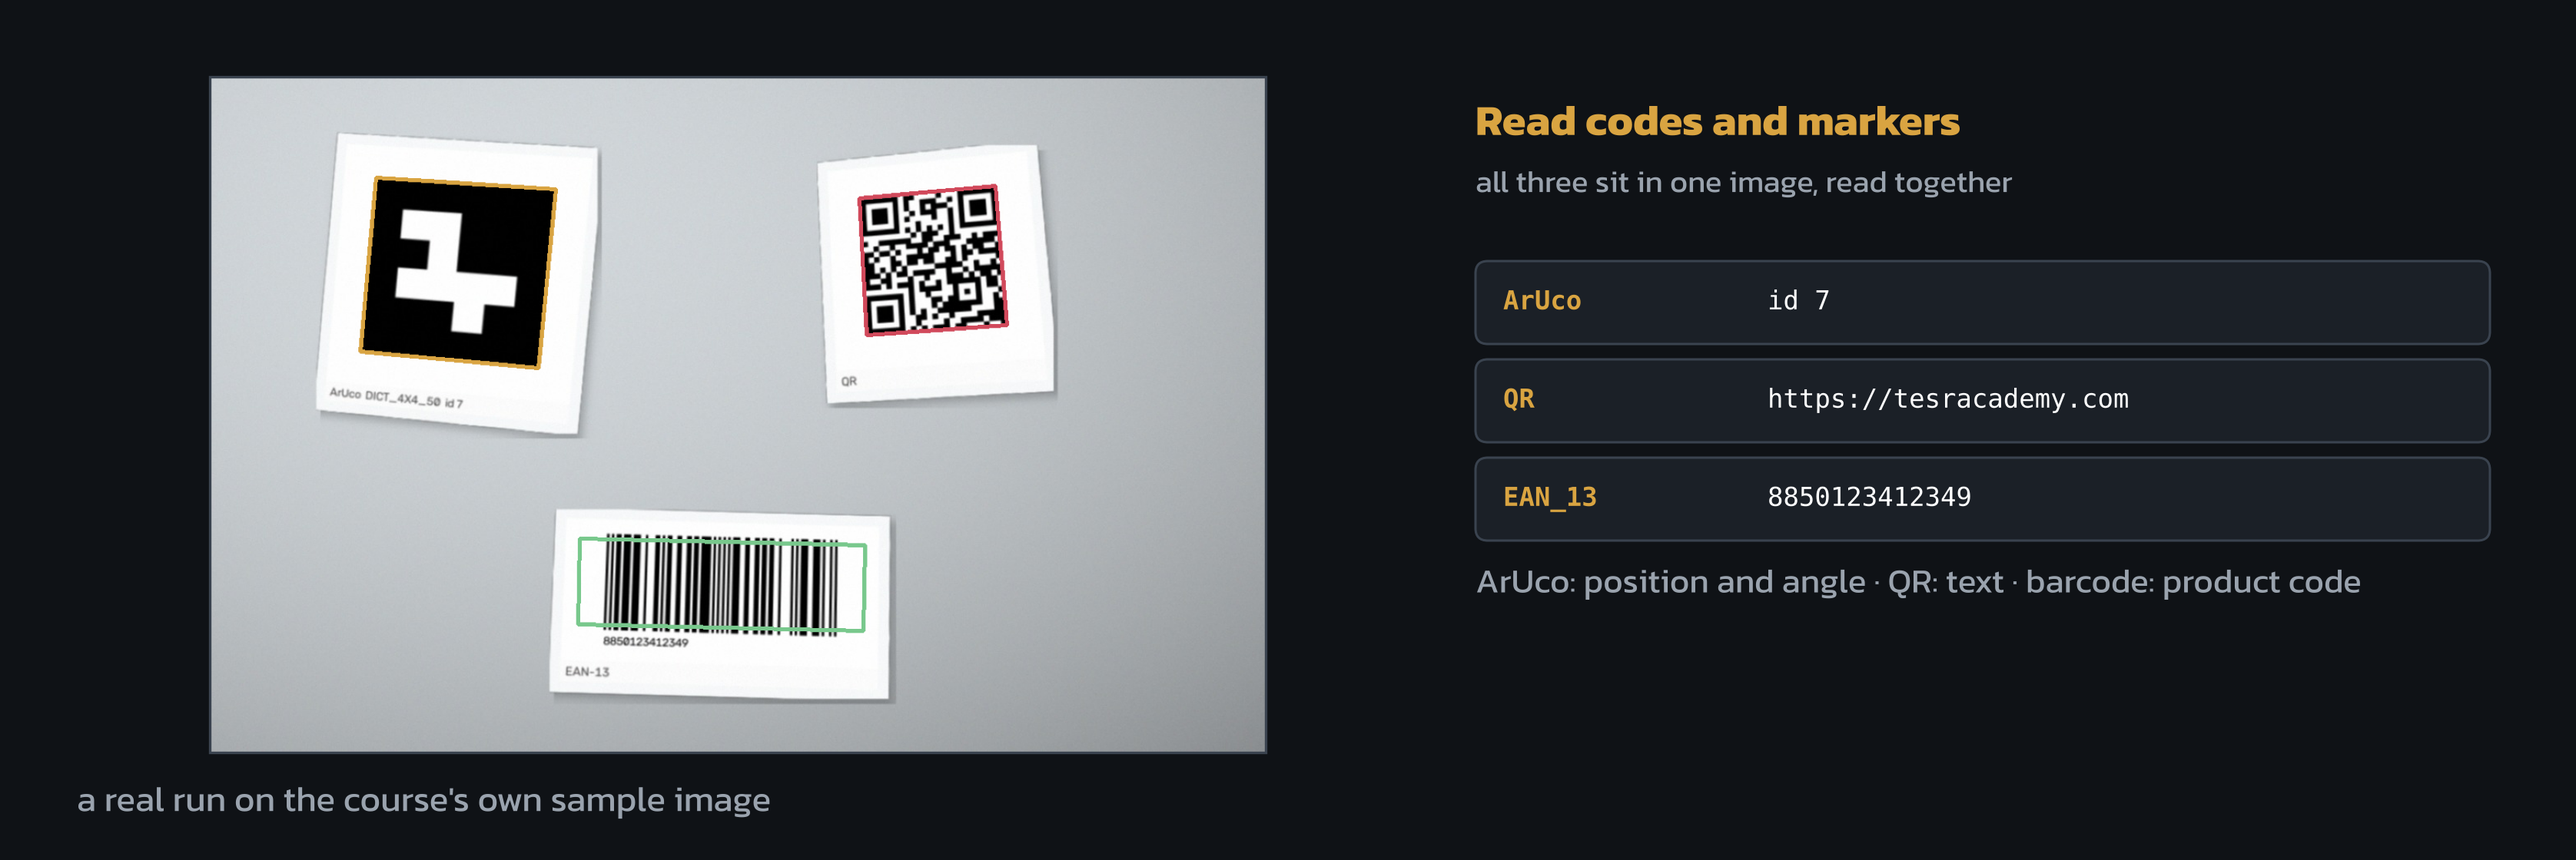
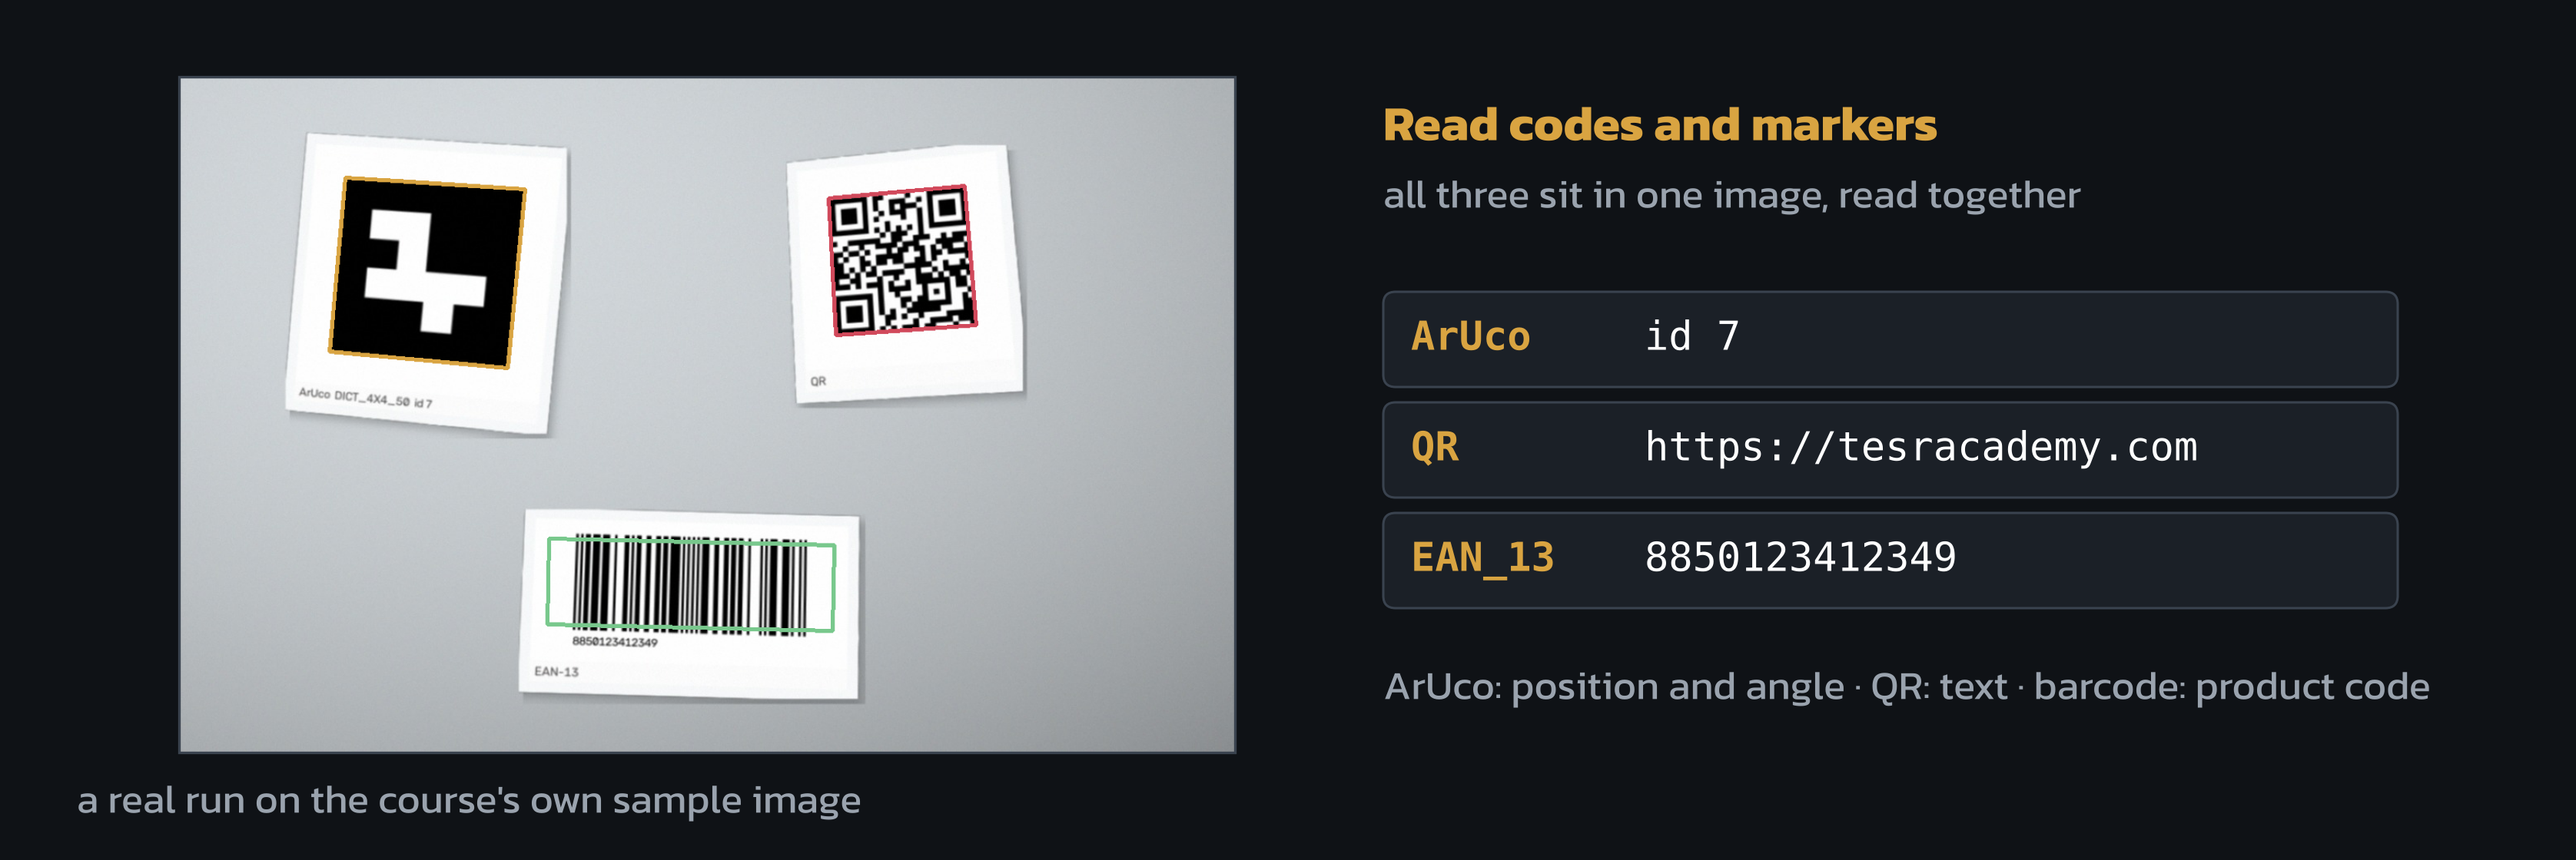
Chapter 3 figures: raise every type size to the course's readability floor
Anon has asked several times for larger text on slides, and chapter 3's figures
were the worst offenders: 41 of the 51 text calls in ip_panels2.py sat below
24px, the smallest at 13px, against a slide whose own body text is 26px. Inside
a figure that reads as a mistake, and from the back of a room it is unreadable.

The floor, in the logical px these scripts use:

  body text, captions, notes      26
  panel and section headings      32
  labels inside a chip or bar     20   (solid fill, high contrast)
  monospace code                  20

Every canvas keeps its original W, H, because each figure sits in a fixed box
in Canva - the larger type is absorbed by re-flowing positions and spacing, not
by resizing the figure. Where a line no longer fitted it was shortened rather
than shrunk back down, and every honesty marker survives: "proportions are
illustrative", "this course ships no face images", the PDPA sentence and the
diagram-not-a-measurement notes are all intact.

Two captions in panel_haar were trimmed for length, keeping their claims:
  "...look for eyes only inside the face box..." -> "...only inside it..."
  "...a real system must always ask consent" -> "...must ask consent"

All twelve PNGs were re-rendered and inspected, and an ink-extent check
confirms none touches a canvas edge.

Claude-Session: https://claude.ai/code/session_01L2BgT3gVYruUssRpoAW2J5

diff --git a/slide_assets/src/ip_panels2.py b/slide_assets/src/ip_panels2.py
@@ -79,28 +79,28 @@ def panel_stream():
     # a window, because that is literally what the learner sees first
     wx, wy, ww, wh = 60, 40, 760, 540
     bx(a, wx, wy, ww, wh, fc="#1A1F26", ec=EDGE, lw=1.4, r=10, z=4)
-    bx(a, wx, wy, ww, 40, fc="#262C34", ec="none", r=10, z=5)
-    a.add_patch(Rectangle((wx, wy + 28), ww, 12, fc="#262C34", ec="none", zorder=5))
+    bx(a, wx, wy, ww, 46, fc="#262C34", ec="none", r=10, z=5)
+    a.add_patch(Rectangle((wx, wy + 34), ww, 12, fc="#262C34", ec="none", zorder=5))
     for i, c in enumerate(("#E05A4F", "#E0B441", "#5FB85F")):
-        a.add_patch(Circle((wx + 22 + i * 20, wy + 20), 6, fc=c, ec="none", zorder=6))
-    t(a, wx + 92, wy + 20.5, "TESR camera", px=14, c=DIM, fam=MONO, z=6)
-    put_img(a, frame, wx + 14, wy + 54, ww - 28, wh - 70)
+        a.add_patch(Circle((wx + 24 + i * 22, wy + 23), 7, fc=c, ec="none", zorder=6))
+    t(a, wx + 100, wy + 23.5, "TESR camera", px=20, c=DIM, fam=MONO, z=6)
+    put_img(a, frame, wx + 14, wy + 60, ww - 28, wh - 76)
 
-    x0 = 900
-    t(a, x0, 72, "Nothing done to the image yet", px=27, c=GOLD, w="bold")
-    t(a, x0, 112, "Just open the camera and check that frames arrive", px=21, c=MUTED)
+    x0 = 870
+    t(a, x0, 72, "Nothing done to the image yet", px=32, c=GOLD, w="bold")
+    t(a, x0, 116, "Just open the camera and check that frames arrive", px=26, c=MUTED)
 
     code = ["cap = cv2.VideoCapture(0)", "", "while True:",
             "    ok, frame = cap.read()", "    if not ok:", "        break",
             "    cv2.imshow('cam', frame)",
             "    if cv2.waitKey(1) == ord('q'):", "        break", "",
             "cap.release()", "cv2.destroyAllWindows()"]
-    bx(a, x0, 150, 700, 330, fc="#0A0D11", ec=EDGE, lw=1.3, r=10, z=5)
+    bx(a, x0, 150, 700, 352, fc="#0A0D11", ec=EDGE, lw=1.3, r=10, z=5)
     for i, line in enumerate(code):
-        t(a, x0 + 26, 180 + i * 25, line, px=16, c=WHITE if line else MUTED,
+        t(a, x0 + 26, 178 + i * 27, line, px=20, c=WHITE if line else MUTED,
           fam=MONO, z=7)
-    t(a, x0, 520, "0 is the first USB camera  ·  try 1 or 2 if several are plugged in", px=23, c=MUTED)
-    t(a, x0, 556, "Always quit with q, or the camera stays locked", px=23, c=MUTED)
+    t(a, x0, 534, "0 is the first USB camera · try 1 or 2 if several are plugged in", px=26, c=MUTED)
+    t(a, x0, 578, "Always quit with q, or the camera stays locked", px=26, c=MUTED)
     f.savefig(OUT + "ip_stream.png", dpi=100, facecolor=BG); plt.close(f)
     print("ip_stream.png")
 
@@ -129,7 +129,7 @@ def panel_numbers():
                           lw=3.0 * S, zorder=9))
     a.plot([sx + 30, 700], [sy + 14, 300], color=GOLD, lw=1.2 * S, ls=(0, (6, 4)),
            zorder=9)
-    t(a, 50, 592, "a real camera frame", px=23, c=MUTED)
+    t(a, 50, 592, "a real camera frame", px=26, c=MUTED)
 
     arrow(a, 610, 310, 680, 310)
 
@@ -142,19 +142,19 @@ def panel_numbers():
             a.add_patch(Rectangle((gx + c * cell, gy + r * cell), cell, cell,
                                   fc=g, ec="#0F1216", lw=0.8, zorder=6))
             t(a, gx + c * cell + cell / 2, gy + r * cell + cell / 2, str(v),
-              px=13, c="#101418" if v > 130 else "#E8E8E8", ha="center",
+              px=20, c="#101418" if v > 130 else "#E8E8E8", ha="center",
               fam=MONO, z=7)
-    t(a, gx, gy - 24, "real brightness of the 8 x 8 pixels in the gold box", px=19, c=GOLD)
+    t(a, gx, gy - 28, "real brightness of the 8 x 8 pixels in the gold box", px=26, c=GOLD)
 
     x2 = gx + n * cell + 60
-    t(a, x2, 150, "frame.shape", px=22, c=GOLD, fam=MONO, w="bold")
-    t(a, x2, 186, "(512, 512, 3)", px=20, c=WHITE, fam=MONO)
-    t(a, x2, 216, "height, width, 3 colours", px=21, c=MUTED)
-    t(a, x2, 282, "frame[y, x]", px=22, c=GOLD, fam=MONO, w="bold")
-    t(a, x2, 318, "row first, column second", px=21, c=MUTED)
-    t(a, x2, 384, "B G R", px=22, c=GOLD, fam=MONO, w="bold")
-    t(a, x2, 420, "not R G B", px=21, c=MUTED)
-    t(a, 730, 592, "everything in this chapter is maths on these numbers", px=23, c=MUTED)
+    t(a, x2, 170, "frame.shape", px=26, c=GOLD, fam=MONO, w="bold")
+    t(a, x2, 208, "(512, 512, 3)", px=26, c=WHITE, fam=MONO)
+    t(a, x2, 246, "height, width, 3 colours", px=26, c=MUTED)
+    t(a, x2, 312, "frame[y, x]", px=26, c=GOLD, fam=MONO, w="bold")
+    t(a, x2, 350, "row first, column second", px=26, c=MUTED)
+    t(a, x2, 416, "B G R", px=26, c=GOLD, fam=MONO, w="bold")
+    t(a, x2, 454, "not R G B", px=26, c=MUTED)
+    t(a, 730, 592, "everything in this chapter is maths on these numbers", px=26, c=MUTED)
     f.savefig(OUT + "ip_numbers.png", dpi=100, facecolor=BG); plt.close(f)
     print("ip_numbers.png")
 
@@ -166,31 +166,37 @@ def panel_fps():
     frame = cv2.imread(SAMPLES + "ex3.png").copy()
     cv2.putText(frame, "FPS  24.6", (18, 48), cv2.FONT_HERSHEY_SIMPLEX,
                 1.3, (65, 164, 217), 3, cv2.LINE_AA)
-    put_img(a, frame, 60, 50, 620, 440)
-    t(a, 60, 520, "the number here only shows what the counter looks like — measure on the device you will use", px=23, c=MUTED)
+    put_img(a, frame, 60, 44, 620, 420)
+    # the slide's own gold caption carries the "not a Pi benchmark" point, so
+    # this line only has to say what the viewer is looking at
+    t(a, 60, 500, "this is what the counter looks like on screen", px=26,
+      c=MUTED)
 
     x0 = 760
-    t(a, x0, 78, "Time the whole loop, not just the model", px=27, c=GOLD, w="bold")
+    t(a, x0, 72, "Time the whole loop, not just the model", px=32, c=GOLD,
+      w="bold")
     code = ["prev = time.time()", "while True:",
             "    ok, frame = cap.read()", "    # process the frame here",
             "    now = time.time()",
             "    fps = 1.0 / (now - prev)", "    prev = now"]
-    bx(a, x0, 118, 560, 220, fc="#0A0D11", ec=EDGE, lw=1.3, r=10, z=5)
+    bx(a, x0, 112, 600, 252, fc="#0A0D11", ec=EDGE, lw=1.3, r=10, z=5)
     for i, line in enumerate(code):
-        t(a, x0 + 24, 146 + i * 26, line, px=16, c=WHITE, fam=MONO, z=7)
+        t(a, x0 + 24, 142 + i * 30, line, px=20, c=WHITE, fam=MONO, z=7)
 
     # where the time actually goes - proportions shown, no fabricated totals
-    t(a, x0, 380, "the time that goes missing is usually not the processing", px=21, c=WHITE)
+    t(a, x0, 398, "the time that goes missing is usually not the processing",
+      px=26, c=WHITE)
     segs = [("camera read", 0.42, BLUE), ("processing", 0.33, GOLD),
             ("imshow / waitKey", 0.25, STEEL)]
     bxx = x0
     for lab, frac, col in segs:
         w = 780 * frac
-        a.add_patch(Rectangle((bxx, 414), w, 40, fc=col, ec=BG, lw=1.5, zorder=6))
-        t(a, bxx + w / 2, 434, lab, px=14, c="#0E1116", ha="center", w="bold", z=7)
+        a.add_patch(Rectangle((bxx, 428), w, 46, fc=col, ec=BG, lw=1.5, zorder=6))
+        t(a, bxx + w / 2, 451, lab, px=20, c="#0E1116", ha="center", w="bold",
+          z=7)
         bxx += w
-    t(a, x0, 492, "proportions are illustrative — time it on your own machine",
-      px=22, c=MUTED)
+    t(a, x0, 512, "proportions are illustrative — time it on your own machine",
+      px=26, c=MUTED)
     f.savefig(OUT + "ip_fps.png", dpi=100, facecolor=BG); plt.close(f)
     print("ip_fps.png")
 
@@ -199,41 +205,43 @@ def panel_fps():
 def panel_haar():
     W, H = 1676, 560
     f, a = fig(W, H)
-    t(a, 60, 70, "Find face / eyes / smile", px=28, c=GOLD, w="bold")
-    t(a, 60, 112, "Haar Cascade ships with OpenCV — no training needed", px=21, c=MUTED)
+    t(a, 60, 68, "Find face / eyes / smile", px=32, c=GOLD, w="bold")
+    t(a, 60, 116, "Haar Cascade ships with OpenCV — no training needed", px=26, c=MUTED)
 
     # an illustration, not a photograph: this repo deliberately ships no faces
-    cx, cy = 320, 330
+    cx, cy = 320, 352
     a.add_patch(Ellipse((cx, cy), 230, 290, fc="#20262E", ec=EDGE, lw=1.6 * S, zorder=6))
     a.add_patch(Rectangle((cx - 128, cy - 160), 256, 320, fc="none", ec=CRIM,
                           lw=2.2 * S, zorder=8))
-    t(a, cx - 128, cy - 172, "face", px=16, c=CRIM, w="bold", fam=MONO, z=9)
+    t(a, cx - 128, cy - 180, "face", px=26, c=CRIM, w="bold", fam=MONO, z=9)
     for ex in (-52, 52):
         a.add_patch(Ellipse((cx + ex, cy - 40), 56, 32, fc="#2E353F", ec=EDGE,
                             lw=1.2 * S, zorder=7))
         a.add_patch(Circle((cx + ex, cy - 40), 11, fc="#AEB5BD", ec="none", zorder=8))
         a.add_patch(Rectangle((cx + ex - 38, cy - 62), 76, 44, fc="none", ec=GOLD,
                               lw=2.0 * S, zorder=9))
-    t(a, cx - 90, cy - 74, "eye", px=15, c=GOLD, w="bold", fam=MONO, z=10)
+    t(a, cx - 90, cy - 80, "eye", px=26, c=GOLD, w="bold", fam=MONO, z=10)
     a.add_patch(Ellipse((cx, cy + 88), 110, 44, fc="none", ec=GREEN, lw=2.0 * S,
                         zorder=8, angle=0))
     a.add_patch(Rectangle((cx - 62, cy + 62), 124, 56, fc="none", ec=GREEN,
                           lw=2.0 * S, zorder=9))
-    t(a, cx - 62, cy + 52, "smile", px=15, c=GREEN, w="bold", fam=MONO, z=10)
+    t(a, cx - 62, cy + 44, "smile", px=26, c=GREEN, w="bold", fam=MONO, z=10)
 
     x0 = 700
     code = ["path = cv2.data.haarcascades", "face = cv2.CascadeClassifier(",
             "    path + 'haarcascade_frontalface_default.xml')", "",
             "boxes = face.detectMultiScale(", "    gray, 1.1, 5, minSize=(60, 60))"]
-    bx(a, x0, 180, 900, 200, fc="#0A0D11", ec=EDGE, lw=1.3, r=10, z=5)
+    bx(a, x0, 170, 900, 212, fc="#0A0D11", ec=EDGE, lw=1.3, r=10, z=5)
     for i, line in enumerate(code):
-        t(a, x0 + 26, 208 + i * 27, line, px=16, c=WHITE if line else MUTED,
+        t(a, x0 + 26, 200 + i * 30, line, px=20, c=WHITE if line else MUTED,
           fam=MONO, z=7)
-    t(a, x0, 420, "find the face first, then look for eyes only inside the face box — far fewer false hits",
-      px=20, c=WHITE)
-    t(a, x0, 462, "this course ships no face images — use your own camera in the room", px=19, c=GOLD)
-    t(a, x0, 500, "a face image is biometric data under PDPA — a real system must always ask consent first",
-      px=22, c=MUTED)
+    # shortened to fit at 26px: "inside it" carries the same meaning as
+    # "inside the face box" in a sentence that already named the face box
+    t(a, x0, 428, "find the face first, then look for eyes only inside it — far fewer false hits",
+      px=26, c=WHITE)
+    t(a, x0, 470, "this course ships no face images — use your own camera in the room", px=26, c=GOLD)
+    t(a, x0, 512, "a face image is biometric data under PDPA — a real system must ask consent first",
+      px=26, c=MUTED)
     f.savefig(OUT + "ip_haar.png", dpi=100, facecolor=BG); plt.close(f)
     print("ip_haar.png")
 
@@ -276,21 +284,21 @@ def panel_codes():
                           True, (140, 200, 120), 4)
             rows.append((ty, v))
 
-    put_img(a, out, 50, 50, 860, 440)
-    t(a, 50, 520, "a real run on the course's own sample image", px=23, c=MUTED)
+    put_img(a, out, 50, 50, 820, 440)
+    t(a, 50, 520, "a real run on the course's own sample image", px=26, c=MUTED)
 
-    x0 = 960
-    t(a, x0, 78, "Read codes and markers", px=28, c=GOLD, w="bold")
-    t(a, x0, 118, "all three sit in one image, read together", px=20, c=MUTED)
-    yy = 170
+    x0 = 900
+    t(a, x0, 80, "Read codes and markers", px=32, c=GOLD, w="bold")
+    t(a, x0, 126, "all three sit in one image, read together", px=26, c=MUTED)
+    yy = 190
     for kind, val in rows:
-        bx(a, x0, yy, 660, 54, fc=PANEL, ec=EDGE, lw=1.1, r=8, z=5)
-        t(a, x0 + 18, yy + 27, kind, px=17, c=GOLD, w="bold", fam=MONO, z=7)
-        t(a, x0 + 190, yy + 27, (val[:34] + "…") if len(val) > 35 else val,
-          px=17, c=WHITE, fam=MONO, z=7)
-        yy += 64
-    t(a, x0, yy + 16, "ArUco: position and angle · QR: text · barcode: product code",
-      px=22, c=MUTED)
+        bx(a, x0, yy, 660, 62, fc=PANEL, ec=EDGE, lw=1.1, r=8, z=5)
+        t(a, x0 + 18, yy + 31, kind, px=26, c=GOLD, w="bold", fam=MONO, z=7)
+        t(a, x0 + 170, yy + 31, (val[:27] + "…") if len(val) > 28 else val,
+          px=26, c=WHITE, fam=MONO, z=7)
+        yy += 72
+    t(a, x0, yy + 40, "ArUco: position and angle · QR: text · barcode: product code",
+      px=26, c=MUTED)
     f.savefig(OUT + "ip_codes.png", dpi=100, facecolor=BG); plt.close(f)
     print("ip_codes.png  rows=%d" % len(rows))
 
@@ -305,9 +313,9 @@ def panel_path():
     """
     W, H = 1676, 600
     f, a = fig(W, H)
-    t(a, 60, 60, "From the web to the real device", px=32, c=WHITE, w="bold")
-    t(a, 60, 104, "the same four steps work for every task in this chapter",
-      px=23, c=MUTED)
+    t(a, 60, 62, "From the web to the real device", px=32, c=WHITE, w="bold")
+    t(a, 60, 110, "the same four steps work for every task in this chapter",
+      px=26, c=MUTED)
 
     # The scannable way in. Big on purpose - from the back of a room, or from
     # a printed handout, this is the only thing that has to be readable.
@@ -315,12 +323,14 @@ def panel_path():
     qr_path = "/tmp/lab_qr.png"
     segno.make(LAB_URL, error="m").save(qr_path, scale=14, border=2,
                                         dark="#0F1216", light="#FFFFFF")
-    bx(a, 1116, 26, 500, 186, fc="#1A1512", ec=GOLD, lw=2.4, r=14, z=5)
-    put_img(a, cv2.imread(qr_path), 1140, 46, 146, 146, border=GOLD)
-    t(a, 1306, 84, "Try it on the web", px=27, c=GOLD, w="bold", z=8)
-    t(a, 1306, 126, "tesr-channel.github.io", px=19, c=WHITE, z=8, fam=MONO)
-    t(a, 1306, 154, "/image_processing_lab", px=19, c=WHITE, z=8, fam=MONO)
-    t(a, 1306, 186, "scan it, or tap the link on the slide", px=17, c=MUTED, z=8)
+    # the card is wider than it was: at 26px the URL and the "scan it" note no
+    # longer fit in a 310px text column beside the QR
+    bx(a, 856, 26, 760, 186, fc="#1A1512", ec=GOLD, lw=2.4, r=14, z=5)
+    put_img(a, cv2.imread(qr_path), 880, 46, 146, 146, border=GOLD)
+    t(a, 1066, 70, "Try it on the web", px=32, c=GOLD, w="bold", z=8)
+    t(a, 1066, 112, "tesr-channel.github.io", px=26, c=WHITE, z=8, fam=MONO)
+    t(a, 1066, 143, "/image_processing_lab", px=26, c=WHITE, z=8, fam=MONO)
+    t(a, 1066, 182, "scan it, or tap the link on the slide", px=26, c=MUTED, z=8)
 
     steps = [
         ("1", "Try it on the web", ["Image Processing Lab", "move a slider",
@@ -333,24 +343,24 @@ def panel_path():
     bw, gap = 356, 34
     x = 60
     for num, title, body, col in steps:
-        bx(a, x, 238, bw, 196, fc=PANEL, ec=col, lw=2.0, r=12, z=5)
-        a.add_patch(Circle((x + 40, 276), 24, fc=col, ec="none", zorder=7))
-        t(a, x + 40, 277, num, px=22, c="#0E1116", ha="center", w="bold", z=8,
+        bx(a, x, 232, bw, 196, fc=PANEL, ec=col, lw=2.0, r=12, z=5)
+        a.add_patch(Circle((x + 40, 270), 24, fc=col, ec="none", zorder=7))
+        t(a, x + 40, 271, num, px=24, c="#0E1116", ha="center", w="bold", z=8,
           fam=MONO)
-        t(a, x + 78, 277, title, px=25, c=WHITE, w="bold", z=8)
+        t(a, x + 76, 271, title, px=26, c=WHITE, w="bold", z=8)
         for i, line in enumerate(body):
-            t(a, x + 28, 330 + i * 34, line, px=23, c=MUTED, z=8)
+            t(a, x + 28, 322 + i * 36, line, px=26, c=MUTED, z=8)
         if x + bw + gap < 1600:
-            arrow(a, x + bw + 6, 336, x + bw + gap - 6, 336)
+            arrow(a, x + bw + 6, 330, x + bw + gap - 6, 330)
         x += bw + gap
 
-    bx(a, 60, 456, 1556, 116, fc="#1A1512", ec=GOLD_D, lw=1.8, r=12, z=5)
-    t(a, 86, 488, "Can the web tool run on the Raspberry Pi itself?", px=23,
+    bx(a, 60, 448, 1556, 132, fc="#1A1512", ec=GOLD_D, lw=1.8, r=12, z=5)
+    t(a, 86, 484, "Can the web tool run on the Raspberry Pi itself?", px=26,
       c=GOLD, w="bold", z=7)
     t(a, 86, 520, "the page opens, but the browser only grants the camera over https or localhost",
-      px=23, c=MUTED, z=7)
-    t(a, 86, 550, "a CSI camera also needs libcamerify chromium  ·  the surer path is to tune on a PC and export to the Pi",
-      px=23, c=MUTED, z=7)
+      px=26, c=MUTED, z=7)
+    t(a, 86, 556, "a CSI camera also needs libcamerify chromium  ·  the surer path is to tune on a PC and export to the Pi",
+      px=26, c=MUTED, z=7)
     f.savefig(OUT + "ip_path.png", dpi=100, facecolor=BG); plt.close(f)
     print("ip_path.png")
 

diff --git a/slide_assets/src/ip_panels.py b/slide_assets/src/ip_panels.py
@@ -47,7 +47,7 @@ def strip(frames, labels, out_name, note=None, w=W, h=H):
     d = ImageDraw.Draw(img)
 
     f_lab = font("Kanit", 27)
-    f_note = font("Kanit", 25)
+    f_note = font("Kanit", 26)
 
     PAD = 14
     gap = 46
@@ -247,13 +247,15 @@ def lesson_draw():
 
     img = Image.new("RGB", (W * S, H * S), BG)
     d = ImageDraw.Draw(img)
-    f_code = font("DejaVu Sans Mono", 21)
-    f_eff = font("Kanit", 25)
-    f_note = font("Kanit", 24)
+    f_code = font("DejaVu Sans Mono", 22)
+    f_eff = font("Kanit", 26)
+    f_note = font("Kanit", 26)
 
-    PAD, gx, gy = 14, 24, 18
+    # the grid moves up: at 26px the footnote's descenders reached the canvas
+    # edge where it used to sit
+    PAD, gx, gy = 14, 24, 12
     cw = (W - 2 * PAD - gx) // 2
-    top, chh = 34, 262
+    top, chh = 24, 262
     side = 204
 
     for i, (code, effect, frame) in enumerate(items):
@@ -292,7 +294,7 @@ def lesson_draw():
             d.text((tx * S, ty * S), ln, font=f_eff, fill=WHITE)
             ty += 36
 
-    d.text((PAD * S, (H - 34) * S),
+    d.text((PAD * S, (H - 44) * S),
            "(x, y) counts from the top-left corner  ·  colours are BGR, not "
            "RGB  ·  thickness -1 fills the shape instead of outlining it",
            font=f_note, fill=MUTED)
